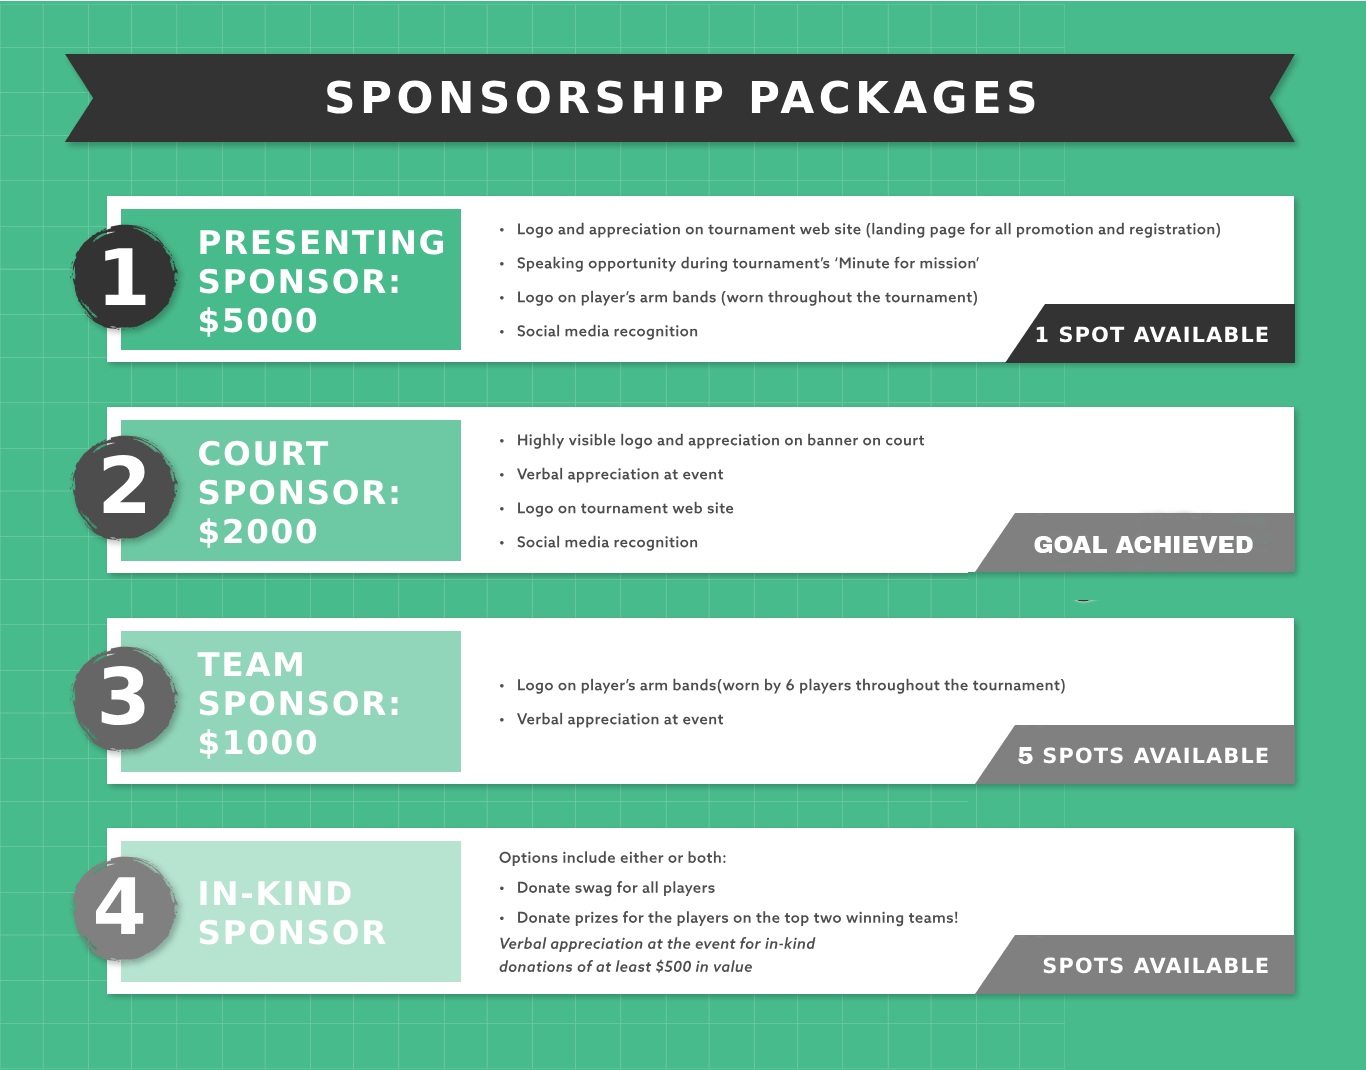
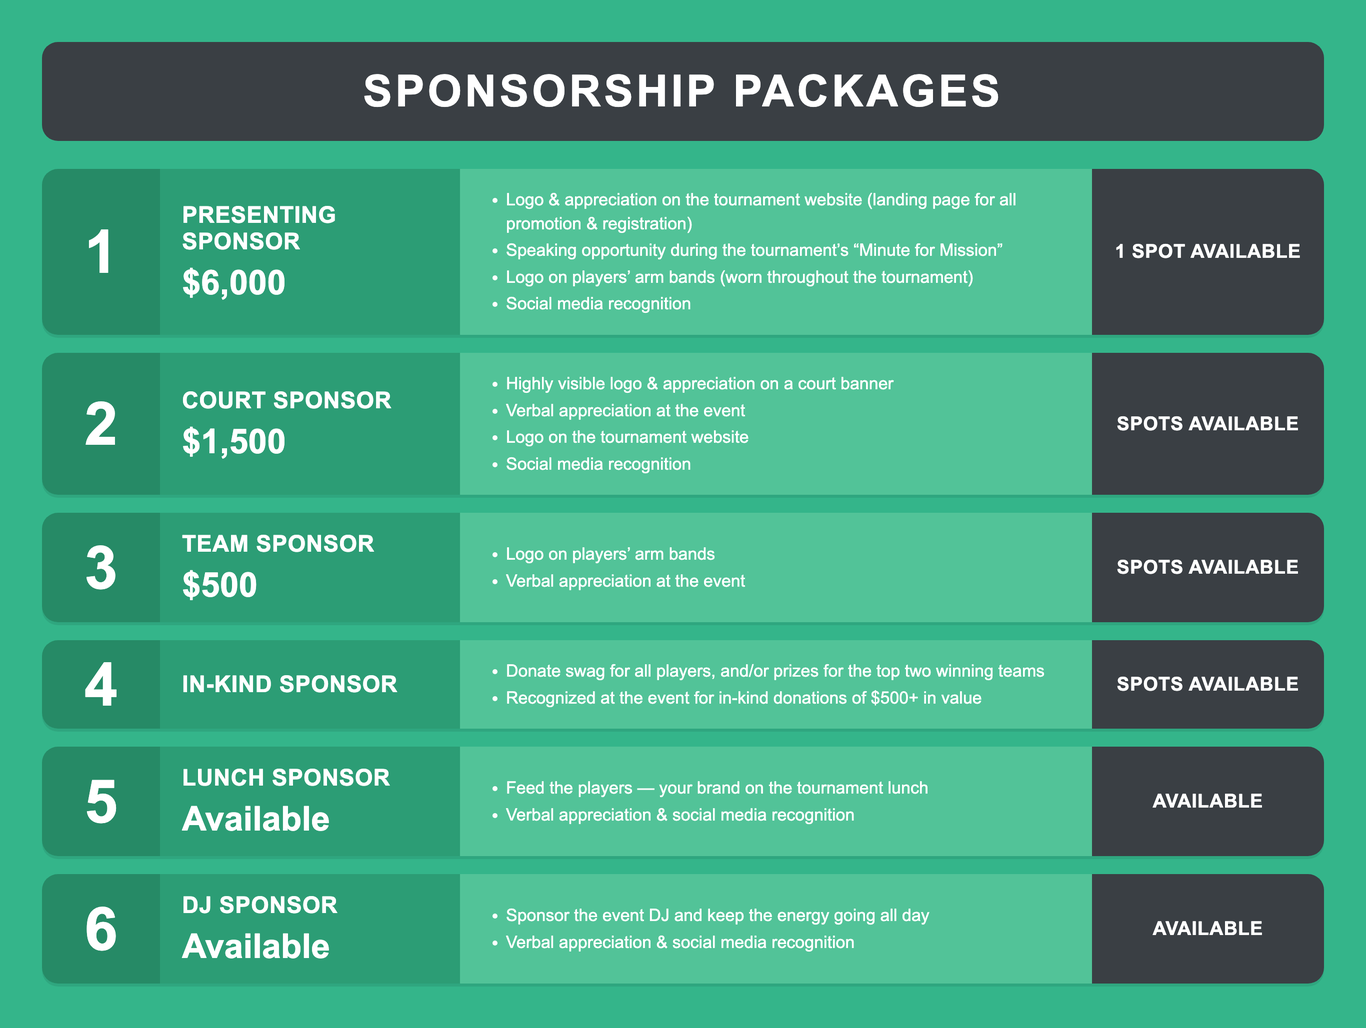
TBD: convert to Blind Draw 4s dual tournament (Rec + Competitive)
- tour_index.php: Nov 1 2026; add Rec (9-1) and Competitive (12-7) division
  blocks with blind-draw note, BBBS Matches (Little 16+), and entry fees
  ($25 matches / $50 others); change format 6v6 -> 4v4; Register button.
- spon_index.php: Presenting $6,000 / Court $1,500 / Team $500 / In-Kind /
  Lunch (available) / DJ (available); keep Blackbaud payment iframe.
- index.php: headline -> 4s; event line Nov 1 2026, 9am-7pm; replace 2025
  countdown/register.php with a Register Now link; mission 6 -> 4 players.
- images/sp1.png: regenerate homepage Sponsorship Packages graphic with new
  prices/tiers in the original teal numbered-card style.
- Register links point to a placeholder vballmanager.com URL (TODO: swap in
  the specific event link).

Spec: docs/superpowers/specs/2026-05-27-tbdvolleyball-blind-draw-4s-design.md

diff --git a/TBD/index.php b/TBD/index.php
@@ -80,7 +80,7 @@
       <table>
         <tr>
           <td style="padding-left: 50px;">
-            <p class="style30" id="top">Blind Draw 6 VS 6 Beach Volleyball Tournament</p>
+            <p class="style30" id="top">Blind Draw 4s Beach Volleyball Tournament</p>
           </td>
         </tr>
         <tr>
@@ -91,39 +91,12 @@
         <tr>
           <td style="padding-left: 50px;">
             <p class="style30">
-              November 1st, 2025 / Aussies Grill & Beach Bar / 9am - 6pm -
-              <span id="reg-text" class="countdown">Registration Has Closed</span>
+              November 1st, 2026 / Aussie’s Grill & Beach Bar / 9am &ndash; 7pm
             </p>
-            <script>
-              (function () {
-                const openAt = new Date("2025-09-18T17:00:00-05:00");
-                const el = document.getElementById("reg-text");
-
-                function updateCountdown() {
-                  const now = new Date();
-                  const diffMs = openAt - now;
-
-                  if (diffMs <= 0) {
-                    el.innerHTML = '<a href="https://tbdvolleyball.com/register.php">CLICK HERE - REGISTER NOW</a>';
-                    el.classList.remove("countdown");
-                    el.classList.add("countdown-done");
-                    clearInterval(timer);
-                    return;
-                  }
-
-                  const totalSeconds = Math.floor(diffMs / 1000);
-                  const days = Math.floor(totalSeconds / (3600 * 24));
-                  const hours = Math.floor((totalSeconds % (3600 * 24)) / 3600);
-                  const mins = Math.floor((totalSeconds % 3600) / 60);
-                  const secs = totalSeconds % 60;
-
-                  el.textContent = `Registration opens in ${days}d ${hours}h ${mins}m ${secs}s`;
-                }
-
-                updateCountdown();
-                const timer = setInterval(updateCountdown, 1000);
-              })();
-            </script>
+            <p class="style30">
+              <!-- TODO: replace href with the specific vballmanager.com event registration link -->
+              <a href="https://vballmanager.com/" class="countdown-done">CLICK HERE &ndash; REGISTER NOW</a>
+            </p>
           </td>
         </tr>
       </table>
@@ -142,7 +115,7 @@
               </tr>
               <tr>
                 <td>
-                  <p class="style18">Our mission is to connect the world of Beach Volleyball with organizations that positively impact our community, similar to the way volleyball has impacted our lives. The format intentionally fosters community by randomly pairing 6 players of all skill levels together. Volleyball exemplifies teamwork, as the most skilled player on the court can only succeed as much as they can support their least experienced teammate. If we approach our communities with this mindset, we can create a brighter future for all. Our goal is to establish lasting connections and inspire engagement and awareness.</p>
+                  <p class="style18">Our mission is to connect the world of Beach Volleyball with organizations that positively impact our community, similar to the way volleyball has impacted our lives. The format intentionally fosters community by randomly pairing 4 players of all skill levels together. Volleyball exemplifies teamwork, as the most skilled player on the court can only succeed as much as they can support their least experienced teammate. If we approach our communities with this mindset, we can create a brighter future for all. Our goal is to establish lasting connections and inspire engagement and awareness.</p>
                 </td>
               </tr>
               <tr>

diff --git a/TBD/tour_index.php b/TBD/tour_index.php
@@ -103,18 +103,29 @@
             <div>
                 <h1>Tournament Details:</h1>
                 <p><strong>Location:</strong> Aussie’s Grill & Beach Bar – 306 Barton Springs Rd, Austin, TX 78704</p>
-                <p><strong>Date:</strong> November 1st, 2025, 9am – 6pm</p>
-          
-                </ul>
-                <p><strong>Type of Event:</strong> This is a blind draw event, meaning you sign up as an individual, and we will randomly draw the teams with a twist (weighted based on levels)</p>
-                <p><strong>Format:</strong> 6 versus 6, Co-Ed (men and women) teams</p>
-                <p><strong>Style of Play:</strong> Standard 6 on 6 rules SEE BELOW FOR MORE DETAILS , pool play into a bracket</p>
+                <p><strong>Date:</strong> November 1st, 2026</p>
+                <p><strong>Type of Event:</strong> This is a blind draw event — you sign up as an individual and we randomly draw the teams with a twist (weighted based on levels). New this year: a dual tournament with two divisions to play in.</p>
+                <p><strong>Format:</strong> 4 versus 4, Co-Ed (men and women) teams</p>
+                <p><strong>Style of Play:</strong> Standard rules (SEE BELOW FOR MORE DETAILS), pool play into a bracket</p>
                 <p><strong>Facility:</strong> Aussies will have food, drinks, bathrooms, shade, and showers</p>
+            </div>
+            <div>
+                <h1>Divisions</h1>
+                <h2>Rec Division &mdash; 9:00 AM to 1:00 PM</h2>
+                <p>All blind draw, 4 vs 4, open to all skill levels. This division includes Big Brother Big Sister <strong>Matches</strong> &mdash; a "Big" paired with their "Little," where the Little is 16 or older.</p>
+                <p><strong>Entry:</strong> BBBS Matches $25 each &middot; all other players $50 each.</p>
+                <h2>Competitive Division &mdash; 12:00 PM to 7:00 PM</h2>
+                <p>All blind draw, 4 vs 4, for experienced and competitive players.</p>
+                <p><strong>Entry:</strong> $50 per player.</p>
+                <p style="text-align:center; padding-top:10px;">
+                    <!-- TODO: replace href with the specific vballmanager.com event registration link -->
+                    <a href="https://vballmanager.com/" style="display:inline-block; background:#48BB8C; color:#fff; padding:14px 30px; border-radius:6px; font-weight:bold; text-decoration:none; font-size:18px;">REGISTER NOW &rarr;</a>
+                </p>
             </div>
             <div>
                 <h1>Our Volleyball Rules</h1>
                 <h2>Team Composition:</h2>
-                <p>Each team consists of six players on the court at a time, with a minimum of four players required to start the game.</p>
+                <p>Each team consists of four players on the court at a time.</p>
                 <h2>Service:</h2>
                 <p>The serve must be executed from behind the end line or the imaginary continuation of the end line. The server can choose any spot behind the end line to serve.</p>
                 <h2>Rotation:</h2>

diff --git a/TBD/spon_index.php b/TBD/spon_index.php
@@ -97,9 +97,12 @@
   <h2>Sponsorship Levels:</h2>
   <p style="font-size: 16px; line-height: 1.6;">
     <ul style="margin-top: 5px; padding-left: 20px;">
-      <li>Presenting Sponsor - <strong>$6000</strong></li>
-      <li>Court Sponsor - <strong>$2000</strong></li>
-      <li>Team Sponsor - <strong>$1000</strong></li>
+      <li>Presenting Sponsor - <strong>$6,000</strong></li>
+      <li>Court Sponsor - <strong>$1,500</strong></li>
+      <li>Team Sponsor - <strong>$500</strong></li>
+      <li>In-Kind Sponsor - donate swag for players and/or prizes for the top two teams (recognized for in-kind donations of $500+ in value)</li>
+      <li>Lunch Sponsor - <strong>available</strong></li>
+      <li>DJ Sponsor - <strong>available</strong></li>
       <li>Choose Your Impact – Every gift matters</li>
     </ul>
     Please include the level in the comment section

diff --git a/docs/superpowers/specs/2026-05-27-tbdvolleyball-blind-draw-4s-design.md b/docs/superpowers/specs/2026-05-27-tbdvolleyball-blind-draw-4s-design.md
@@ -1,0 +1,43 @@
+# tbdvolleyball.com — Blind Draw 4s dual-tournament update
+
+**Date:** 2026-05-27
+**Folder:** `TBD/` (deploys to `digaball.com/beta/TBD/` → live `www.tbdvolleyball.com`)
+**Baseline:** faithful mirror of current live site committed in `c2a2612`.
+
+## Goal
+Convert the existing **Blind Draw 6v6** event into a **Blind Draw 4s** run as a **dual
+tournament** (Rec + Competitive). Venue (Aussie's Grill & Beach Bar, Austin) and charity
+(Big Brother Big Sister of Central Texas) unchanged.
+
+## Confirmed details
+- **Date:** November 1, 2026.
+- **Divisions (all blind draw):**
+  - **Rec** — 9am–1pm. Includes BBBS **Matches** = a "Big" paired with their "Little" (Little 16+).
+  - **Competitive** — 12pm–7pm. (Overlap noon–1; separate courts.)
+- **Player entry fees** (register via vballmanager.com): BBBS Matches **$25**, everyone else **$50**.
+- **Sponsorships:** Presenting **$6,000** · Court **$1,500** · Team **$500** · In-Kind (keep) ·
+  Lunch **available** · DJ **available**.
+- Swag hats = visual inspiration only (no swag section). Palette cue: site green `#48BB8C` + warm multicolor.
+
+## Per-file changes
+- **`tour_index.php`** — title → "Blind Draw 4s"; date → Nov 1 2026; add two division blocks
+  (Rec / Competitive with times, blind-draw note, Matches eligibility, fees); change format
+  **6v6 → 4v4** and fix every "six players" rule reference (team composition, mission); add a
+  **Register** button → vballmanager.com (placeholder link).
+- **`spon_index.php`** — update the text list to the confirmed tiers; keep Blackbaud payment iframe.
+- **`index.php`** — headline → 4s; event line → "November 1st, 2026 / Aussie's Grill & Beach Bar /
+  9am–7pm"; replace the 2025 countdown + `register.php` JS with a **Register Now** link to
+  vballmanager.com; fix "randomly pairing 6 players" → 4.
+- **`images/sp1.png`** — **regenerate** the homepage "Sponsorship Packages" graphic with the new
+  prices/tiers (Presenting $6,000, Court $1,500, Team $500, In-Kind, + Lunch & DJ "available"),
+  matching the original teal/numbered-card style. Built as HTML/CSS, rendered to PNG, replacing
+  the file. Fixes the old $5,000-vs-$6,000 inconsistency.
+
+## Open / placeholders
+- **vballmanager.com registration link** not yet provided → Register buttons point to a clearly
+  marked placeholder for the owner to swap in.
+
+## Noted, not in scope (flagged to owner)
+- `images/sand.jpg` is **19 MB** — should be compressed for page speed.
+- `script.js` 404s and `css/menu-styles.css` is empty on live — the hamburger menu may be broken;
+  offer to fix separately.
